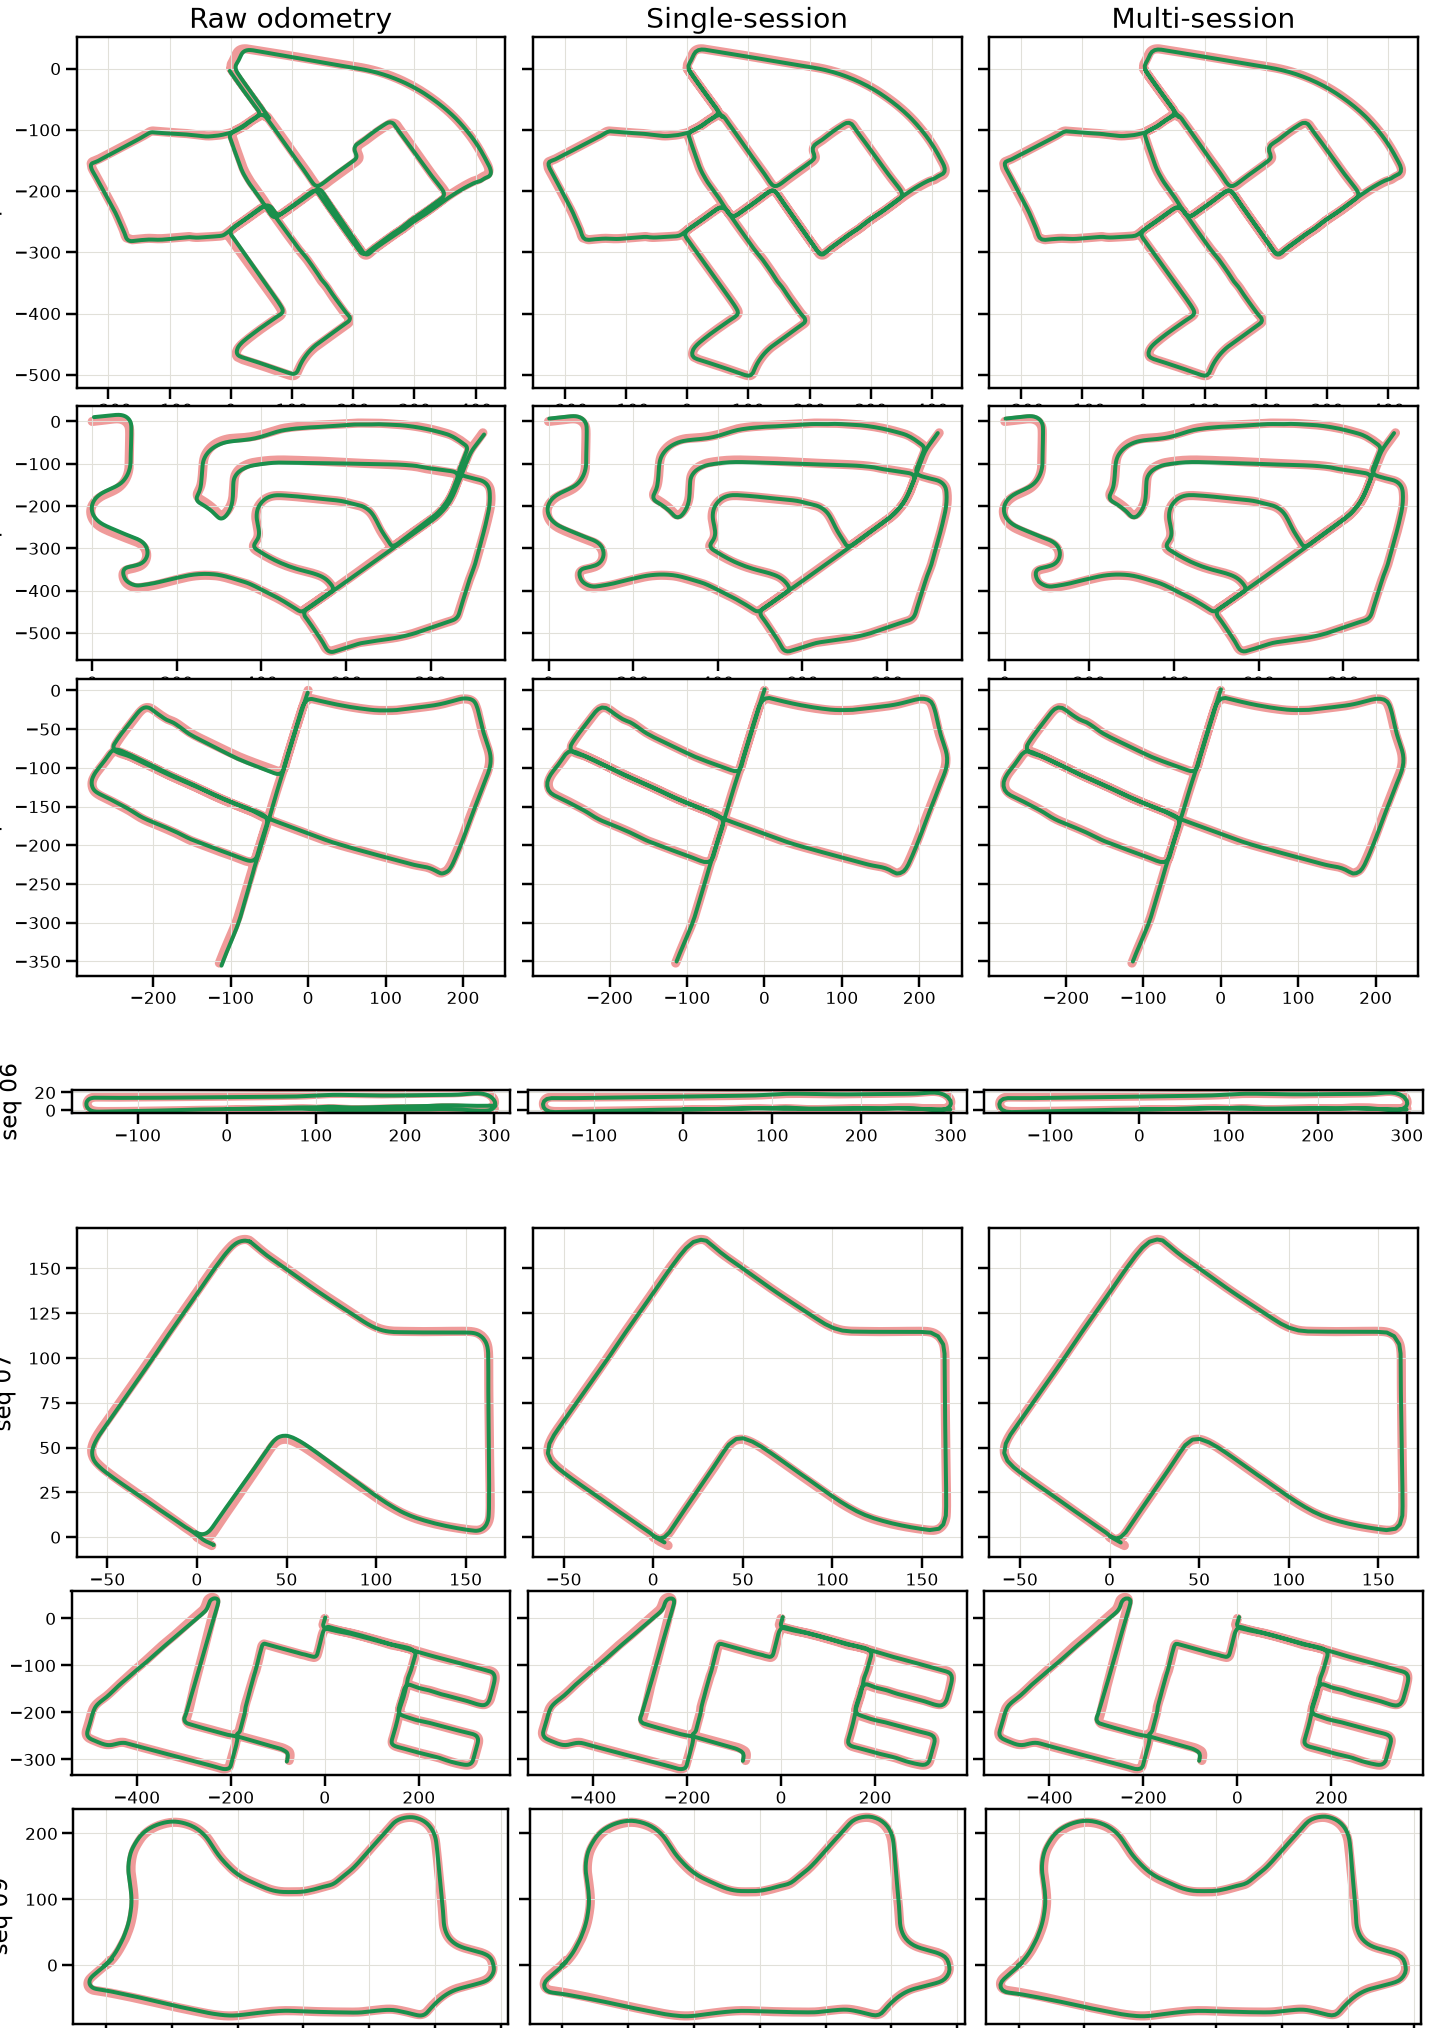
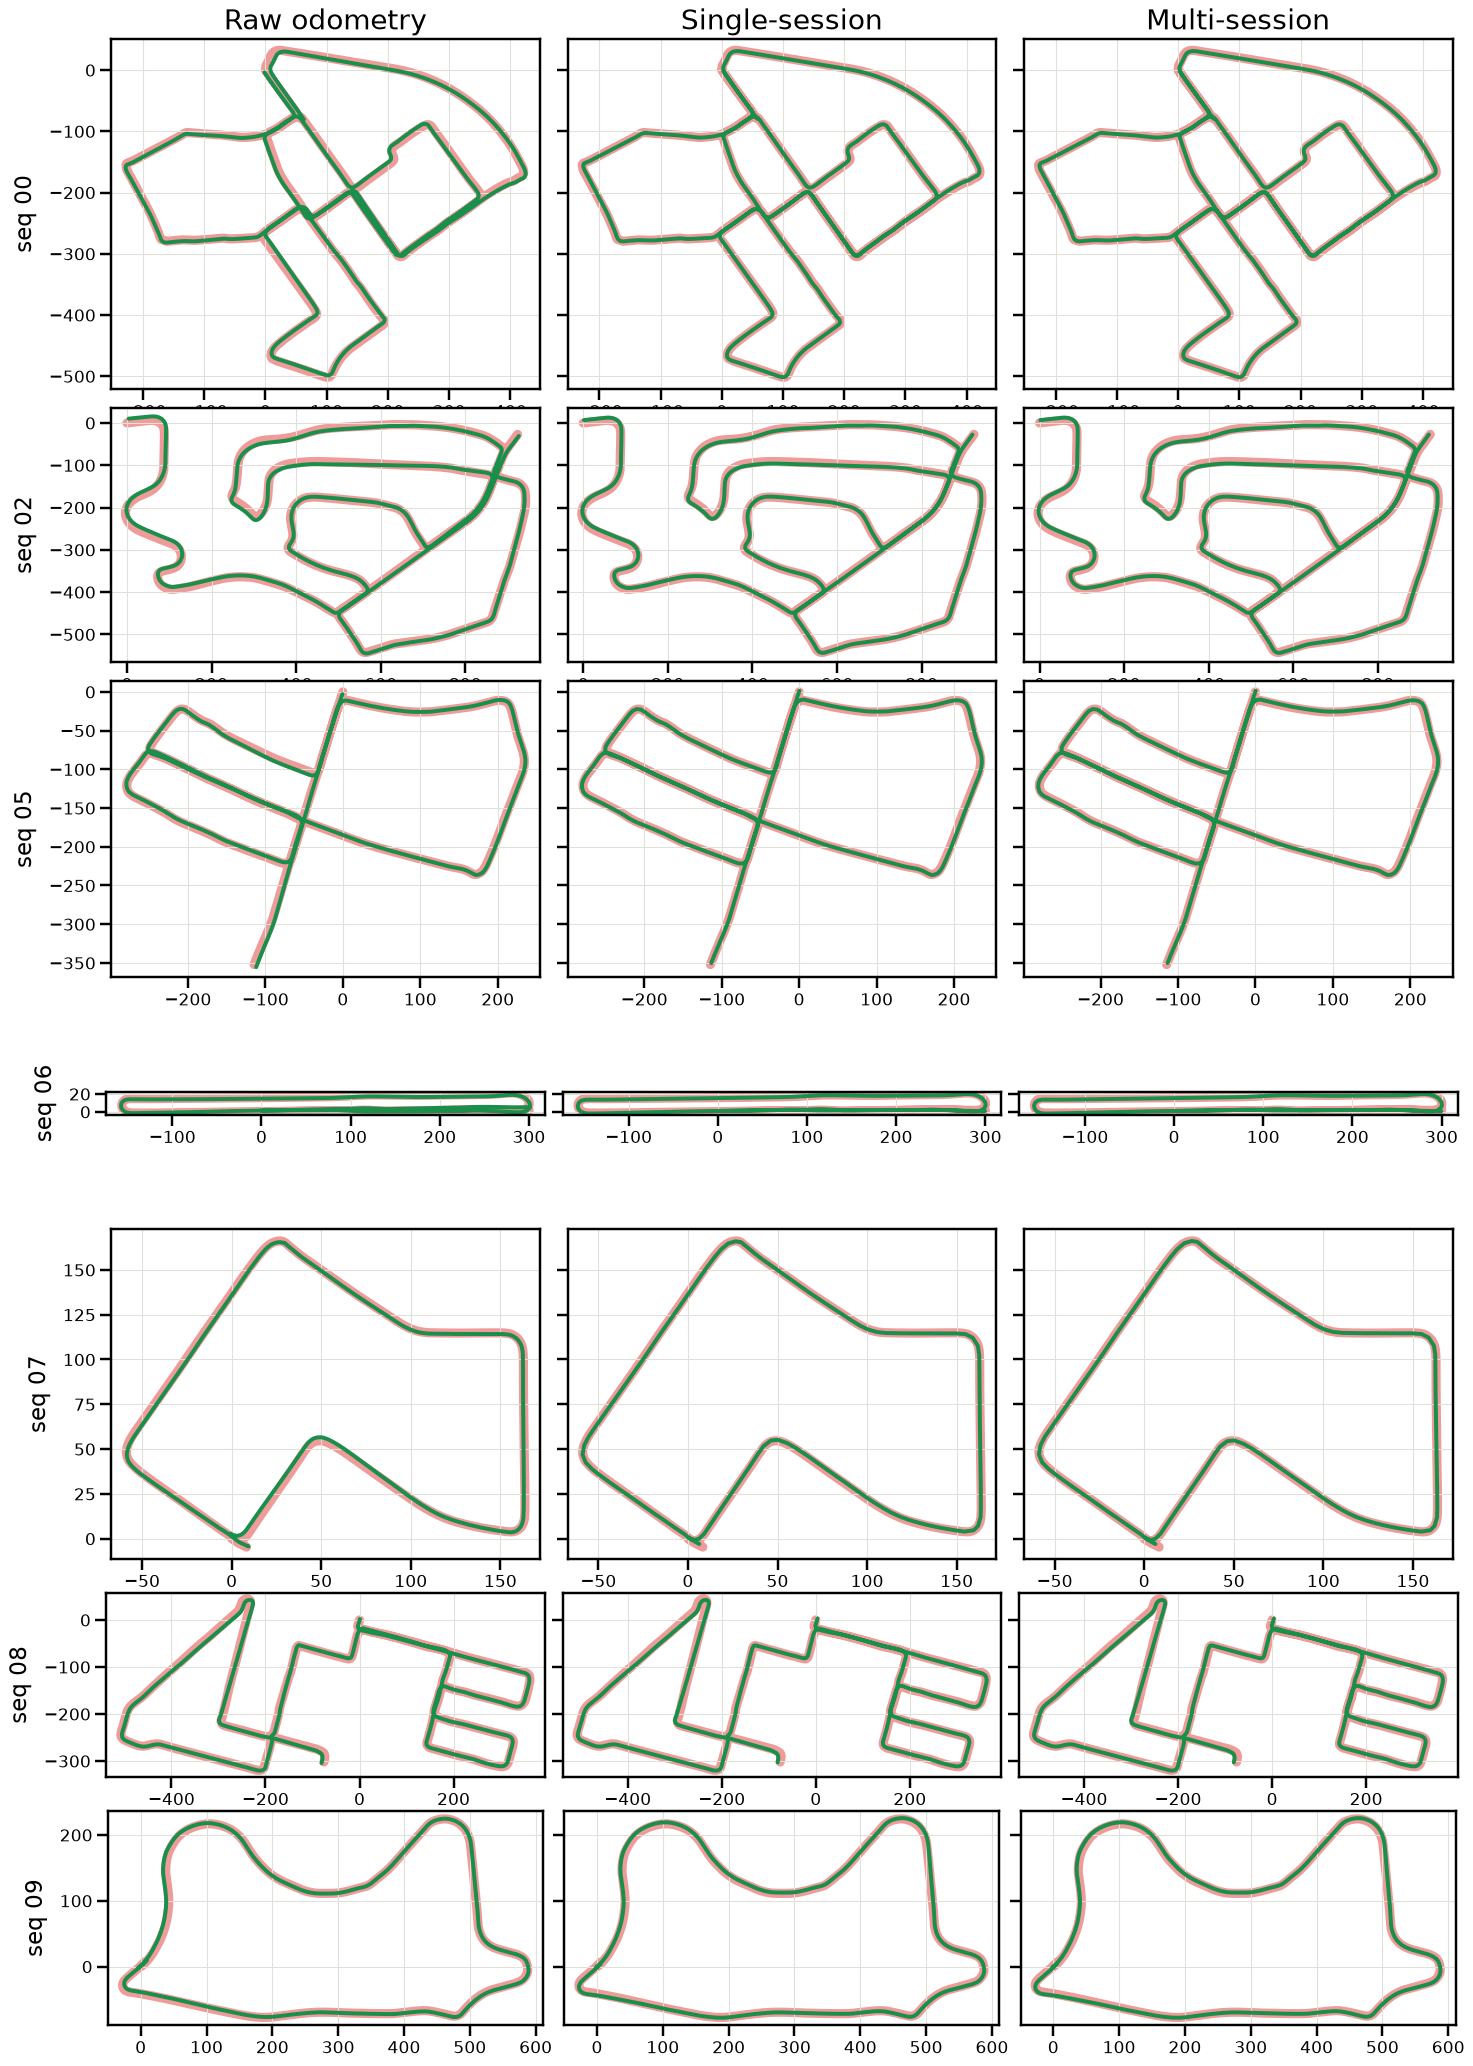
Fix clipped KITTI grid labels, trim redundant appendix captions
KITTI trajectory grids: regenerated with bbox_inches=tight, the sequence
labels (seq 00, etc.) were getting clipped off the left edge in several
rows since the fixed 5% gridspec margin wasn't enough room for the rotated
label plus y-axis ticks together.

Appendix figure captions: several had grown into full explanations
duplicating facts already stated in Experiments body text or table
captions (HGE component/reference breakdown, session 568's improvement,
KITTI seq 08's detection miss, the ref-anchoring Umeyama-fit methodology).
Trimmed those to short descriptions plus a cross-reference. The two facts
that were only ever in an appendix caption and nowhere else (HoloLens's two
components never sharing a cross-session edge, iOS session 06-24 carrying
the highest ref-anchored error, and the ref-anchoring mechanism itself)
moved into the corresponding Experiments paragraphs so nothing was lost.

Changed region(s): [[0.0, 0.0, 1.0, 0.497], [0.0, 0.5902, 1.0, 1.0], [0.0, 0.5281, 1.0, 0.5592]]

diff --git a/sections/07_appendix.tex b/sections/07_appendix.tex
@@ -20,9 +20,8 @@ per-sequence trajectory visualizations and other detailed breakdowns.
   \includegraphics[width=0.48\textwidth]{images/07_appendix/hge_ios_anchor_combined.png}
   \caption[HGE ref-anchored estimates, both devices, all sessions combined]{Both devices'
     sessions in their own shared frame, same style as \myfigref{fig:appendix-hydro-anchor-combined}.
-    Left: HoloLens, 2 components that sit in genuinely different parts of the site and never share
-    a cross-session edge with each other, only within their own component. Right: iOS, 1
-    component.}
+    Left: HoloLens. Right: iOS. Component/reference breakdown for both is in
+    \mytabref{tab:experiments-hge-anchoring}.}
   \label{fig:appendix-hge-anchor-combined}
 \end{figure}
 
@@ -30,10 +29,8 @@ per-sequence trajectory visualizations and other detailed breakdowns.
   \centering
   \includegraphics[width=\textwidth]{images/07_appendix/hge_hololens_anchor_individual.png}
   \caption[HGE HoloLens ref-anchored estimate vs.\ GT, per session]{HGE HoloLens non-reference
-    sessions, same methodology and layout as \myfigref{fig:appendix-hydro-anchor-individual}. The
-    device splits into 2 disconnected components (\mytabref{tab:experiments-hge-anchoring}): A
-    (reference \texttt{139}, others \texttt{568}/\texttt{996}) and B (reference \texttt{295},
-    other \texttt{693}), each anchored by its own component's fixed transform.}
+    sessions, same methodology and layout as \myfigref{fig:appendix-hydro-anchor-individual}.
+    Component/reference breakdown is in \mytabref{tab:experiments-hge-anchoring}.}
   \label{fig:appendix-hge-hololens-anchor-individual}
 \end{figure}
 
@@ -43,8 +40,7 @@ per-sequence trajectory visualizations and other detailed breakdowns.
   \caption[HGE iOS ref-anchored estimate vs.\ GT, per session]{HGE iOS non-reference sessions
     (\texttt{ios\_split}, reference \texttt{01-18}), same methodology as
     \myfigref{fig:appendix-hydro-anchor-individual}. Per-panel numbers match
-    \mytabref{tab:experiments-hge-anchoring}. The visible GT/estimate gap on \texttt{06-24} is the
-    largest of the three, consistent with it having the highest ref-anchored error in that table.}
+    \mytabref{tab:experiments-hge-anchoring}.}
   \label{fig:appendix-hge-ios-anchor-individual}
 \end{figure}
 
@@ -56,10 +52,10 @@ per-sequence trajectory visualizations and other detailed breakdowns.
   \centering
   \includegraphics[width=\textwidth]{images/07_appendix/hge_hololens_grid.png}
   \caption[HGE trajectory grid, HoloLens sessions]{HGE trajectory grid, HoloLens sessions
-    (device-isolated \texttt{hl\_split} run): native odometry, single-session, and multi-session
-    output (green) against GT (red), GT-aligned. Session \texttt{568}'s native odometry drifts
-    heavily and is visibly corrected in the multi-session column, matching \mytabref{tab:experiments-hge-mixed}'s
-    2.09\,m $\to$ 0.29\,m improvement.}
+    (device-isolated \texttt{hl\_split} run). Native odometry, single-session, and multi-session
+    output (green) against GT (red), GT-aligned. Session \texttt{568}'s heavy native-odometry
+    drift and its multi-session correction (\mytabref{tab:experiments-hge-mixed}) are visible in
+    the bottom row.}
   \label{fig:appendix-hge-hololens}
 \end{figure}
 
@@ -95,11 +91,8 @@ per-sequence trajectory visualizations and other detailed breakdowns.
   \includegraphics[width=0.85\textwidth]{images/07_appendix/hydro_anchor_individual.png}
   \caption[HYDRO ref-anchored estimate vs.\ GT, per session]{HYDRO's 4 non-reference sessions,
     each panel showing that session's ref-anchored estimate (blue) against its own GT (green,
-    faded), over the real site-scan floor plan. Same methodology as
-    \texttt{pipelines/compute\_ref\_anchored.py} (\mytabref{tab:experiments-hydro-ate}'s
-    ref-anchored columns): the reference session (\texttt{11-24\_11-13}) is Umeyama-fit to its
-    own GT once, and that same fixed transform, not an independent per-session fit, is applied to
-    every other session's estimate before comparing it to its own GT.}
+    faded), over the real site-scan floor plan. Ref-anchoring methodology is in
+    \mysecref{sec:experiments-main}. Numbers are in \mytabref{tab:experiments-hydro-ate}.}
   \label{fig:appendix-hydro-anchor-individual}
 \end{figure}
 
@@ -130,10 +123,9 @@ per-sequence trajectory visualizations and other detailed breakdowns.
   \centering
   \includegraphics[width=0.9\textwidth]{images/07_appendix/kitti_grid_vins.png}
   \caption[KITTI trajectory grid, VINS-Fusion backbone]{Same layout as
-    \myfigref{fig:appendix-kitti-orb}, VINS-Fusion backbone. Sequence 08's raw odometry visibly
-    drifts from GT and stays uncorrected in both the single- and multi-session columns, the same
-    drift pattern in all three panels (\mytabref{tab:experiments-kitti-vins}'s detection-miss
-    caveat: zero intra- or cross-session edges found for this sequence on this backbone).}
+    \myfigref{fig:appendix-kitti-orb}, VINS-Fusion backbone. Sequence 08's raw drift stays
+    uncorrected in all three panels, the visible counterpart to
+    \mytabref{tab:experiments-kitti-vins}'s detection-miss caveat.}
   \label{fig:appendix-kitti-vins}
 \end{figure}
 

diff --git a/sections/04_experiments.tex b/sections/04_experiments.tex
@@ -230,8 +230,11 @@ per session (\mysecref{sec:method-graph}'s own convention, no scale correction, 
 odometry backbone used here is already metric). Where a dataset is multi-session GT eligible
 (\mytabref{tab:experiments-datasets-overview}), a second, ref-anchored error is also
 reported per non-reference session, isolating how accurately a session was placed relative to the
-rest of its connected component, from ATE's own within session drift. Published baselines are
-included wherever a directly-comparable number exists in prior work.
+rest of its connected component, from ATE's own within session drift. Computed with
+\texttt{pipelines/compute\_ref\_anchored.py}: each connected component's reference session is
+Umeyama-fit to its own GT once, and that same fixed transform, not an independent per-session fit,
+is applied to every other session's estimate before comparing it to its own GT. Published
+baselines are included wherever a directly-comparable number exists in prior work.
 
 \subsection{KITTI}
 \label{sec:experiments-main-kitti}
@@ -359,11 +362,13 @@ connected component each session ends up in.
 
 HGE's biggest single improvement is session \texttt{hl\_568}, which goes from 2.09 meters raw to
 0.29 meters multi-session (\mytabref{tab:experiments-hge-mixed}). Ref-anchored error stays small
-for HoloLens, 0.32 meters and 0.68 degrees on average. iOS's ref-anchored error is real but
-looser, 0.92 meters and 1.71 degrees, even though iOS's own ATE numbers are smaller than
-HoloLens's. A session can have a tight local trajectory shape and still be placed less precisely
-relative to the rest of its component, exactly what ref-anchored error is meant to catch and ATE
-alone would miss.
+for HoloLens, 0.32 meters and 0.68 degrees on average. HoloLens's two components sit in genuinely
+different parts of the site and never share a cross-session edge with each other, only within
+their own component. iOS's ref-anchored error is real but looser, 0.92 meters and 1.71 degrees,
+even though iOS's own ATE numbers are smaller than HoloLens's, and its own worst session,
+\texttt{ios\_06-24}, carries the highest ref-anchored error of any HGE session. A session can have
+a tight local trajectory shape and still be placed less precisely relative to the rest of its
+component, exactly what ref-anchored error is meant to catch and ATE alone would miss.
 
 \begin{table}[htb]
   \centering
